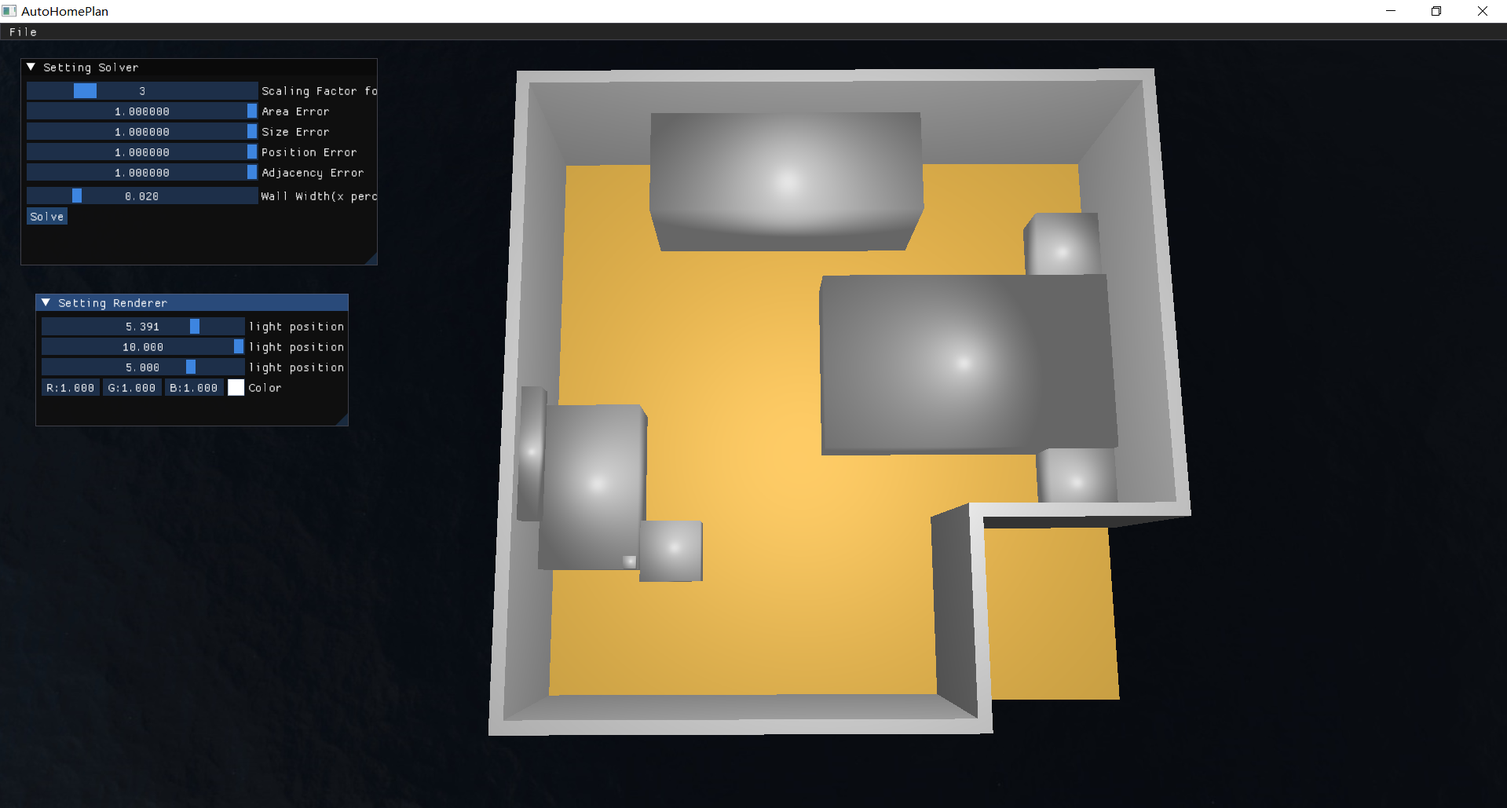
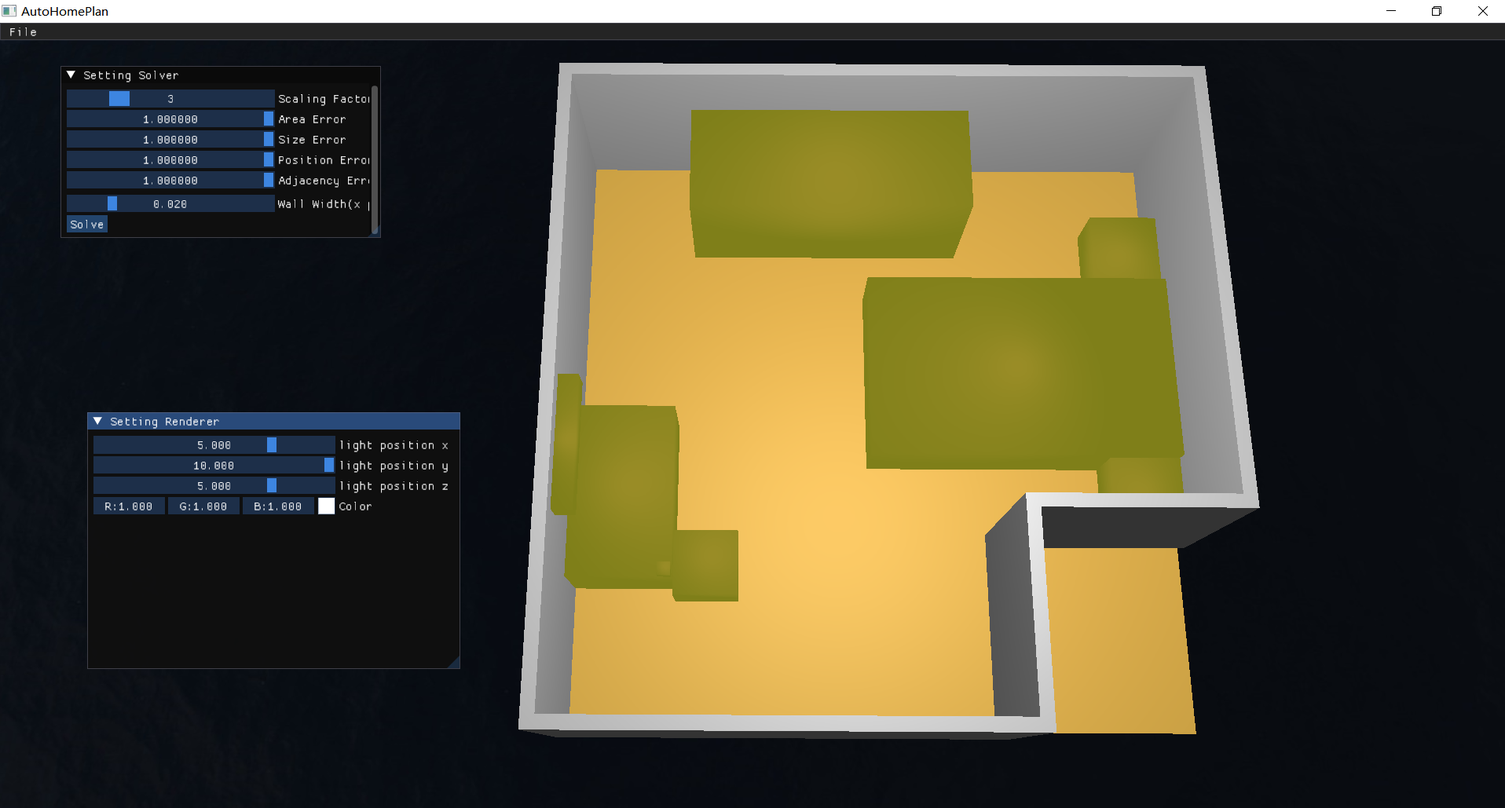
Modify some instructions

diff --git a/src/Solver/Solver.cpp b/src/Solver/Solver.cpp
@@ -73,39 +73,39 @@ void Solver::addConstraints()
 	// Inside Constraints & tolerance Constraint
 	VertexIterator vi, vi_end;
 	for (boost::tie(vi, vi_end) = boost::vertices(g); vi != vi_end; ++vi) {
-		model.addConstr(x_i[g[*vi].id] - l_i[g[*vi].id] / 2 >= boundary.origin_pos[0]);
-		model.addConstr(x_i[g[*vi].id] + l_i[g[*vi].id] / 2 <= boundary.origin_pos[0] + boundary.size[0]);
-		model.addConstr(y_i[g[*vi].id] - w_i[g[*vi].id] / 2 >= boundary.origin_pos[1]);
-		model.addConstr(y_i[g[*vi].id] + w_i[g[*vi].id] / 2 <= boundary.origin_pos[1] + boundary.size[1]);
+		model.addConstr(x_i[g[*vi].id] - l_i[g[*vi].id] / 2 >= boundary.origin_pos[0], "Inside_Object_" + std::to_string(g[*vi].id) + "_x_left");
+		model.addConstr(x_i[g[*vi].id] + l_i[g[*vi].id] / 2 <= boundary.origin_pos[0] + boundary.size[0], "Inside_Object_" + std::to_string(g[*vi].id) + "_x_right");
+		model.addConstr(y_i[g[*vi].id] - w_i[g[*vi].id] / 2 >= boundary.origin_pos[1], "Inside_Object_" + std::to_string(g[*vi].id) + "_y_back");
+		model.addConstr(y_i[g[*vi].id] + w_i[g[*vi].id] / 2 <= boundary.origin_pos[1] + boundary.size[1], "Inside_Object_" + std::to_string(g[*vi].id) + "_y_front");
 		if (!floorplan) {
-			model.addConstr(z_i[g[*vi].id] - h_i[g[*vi].id] / 2 >= boundary.origin_pos[2]);
-			model.addConstr(z_i[g[*vi].id] + h_i[g[*vi].id] / 2 <= boundary.origin_pos[2] + boundary.size[2]);
+			model.addConstr(z_i[g[*vi].id] - h_i[g[*vi].id] / 2 >= boundary.origin_pos[2], "Inside_Object_" + std::to_string(g[*vi].id) + "_z_bottom");
+			model.addConstr(z_i[g[*vi].id] + h_i[g[*vi].id] / 2 <= boundary.origin_pos[2] + boundary.size[2], "Inside_Object_" + std::to_string(g[*vi].id) + "_z_top");
 		}
 		if (!g[*vi].pos_tolerance.empty() && !g[*vi].target_pos.empty()) {
-			model.addConstr(x_i[g[*vi].id] >= g[*vi].target_pos[0] - g[*vi].pos_tolerance[0]);
-			model.addConstr(x_i[g[*vi].id] <= g[*vi].target_pos[0] + g[*vi].pos_tolerance[0]);
-			model.addConstr(y_i[g[*vi].id] >= g[*vi].target_pos[1] - g[*vi].pos_tolerance[1]);
-			model.addConstr(y_i[g[*vi].id] <= g[*vi].target_pos[1] + g[*vi].pos_tolerance[1]);
+			model.addConstr(x_i[g[*vi].id] >= g[*vi].target_pos[0] - g[*vi].pos_tolerance[0], "Pos_Tolerance_Object_" + std::to_string(g[*vi].id) + "_x_left");
+			model.addConstr(x_i[g[*vi].id] <= g[*vi].target_pos[0] + g[*vi].pos_tolerance[0], "Pos_Tolerance_Object_" + std::to_string(g[*vi].id) + "_x_right");
+			model.addConstr(y_i[g[*vi].id] >= g[*vi].target_pos[1] - g[*vi].pos_tolerance[1], "Pos_Tolerance_Object_" + std::to_string(g[*vi].id) + "_y_back");
+			model.addConstr(y_i[g[*vi].id] <= g[*vi].target_pos[1] + g[*vi].pos_tolerance[1], "Pos_Tolerance_Object_" + std::to_string(g[*vi].id) + "_y_front");
 			if (!floorplan) {
-				model.addConstr(z_i[g[*vi].id] >= g[*vi].target_pos[2] - g[*vi].pos_tolerance[2]);
-				model.addConstr(z_i[g[*vi].id] <= g[*vi].target_pos[2] + g[*vi].pos_tolerance[2]);
+				model.addConstr(z_i[g[*vi].id] >= g[*vi].target_pos[2] - g[*vi].pos_tolerance[2], "Pos_Tolerance_Object_" + std::to_string(g[*vi].id) + "_z_bottom");
+				model.addConstr(z_i[g[*vi].id] <= g[*vi].target_pos[2] + g[*vi].pos_tolerance[2], "Pos_Tolerance_Object_" + std::to_string(g[*vi].id) + "_z_top");
 			}
 		}
 		if (!g[*vi].size_tolerance.empty() && !g[*vi].target_size.empty()) {
-			model.addConstr(l_i[g[*vi].id] >= g[*vi].target_size[0] - g[*vi].size_tolerance[0]);
-			model.addConstr(l_i[g[*vi].id] <= g[*vi].target_size[0] + g[*vi].size_tolerance[0]);
-			model.addConstr(w_i[g[*vi].id] >= g[*vi].target_size[1] - g[*vi].size_tolerance[1]);
-			model.addConstr(w_i[g[*vi].id] <= g[*vi].target_size[1] + g[*vi].size_tolerance[1]);
+			model.addConstr(l_i[g[*vi].id] >= g[*vi].target_size[0] - g[*vi].size_tolerance[0], "Size_Tolerance_Object_" + std::to_string(g[*vi].id) + "_l_min");
+			model.addConstr(l_i[g[*vi].id] <= g[*vi].target_size[0] + g[*vi].size_tolerance[0], "Size_Tolerance_Object_" + std::to_string(g[*vi].id) + "_l_max");
+			model.addConstr(w_i[g[*vi].id] >= g[*vi].target_size[1] - g[*vi].size_tolerance[1], "Size_Tolerance_Object_" + std::to_string(g[*vi].id) + "_w_min");
+			model.addConstr(w_i[g[*vi].id] <= g[*vi].target_size[1] + g[*vi].size_tolerance[1], "Size_Tolerance_Object_" + std::to_string(g[*vi].id) + "_w_max");
 			if (!floorplan) {
-				model.addConstr(h_i[g[*vi].id] >= g[*vi].target_size[2] - g[*vi].size_tolerance[2]);
-				model.addConstr(h_i[g[*vi].id] <= g[*vi].target_size[2] + g[*vi].size_tolerance[2]);
+				model.addConstr(h_i[g[*vi].id] >= g[*vi].target_size[2] - g[*vi].size_tolerance[2], "Size_Tolerance_Object_" + std::to_string(g[*vi].id) + "_h_min");
+				model.addConstr(h_i[g[*vi].id] <= g[*vi].target_size[2] + g[*vi].size_tolerance[2], "Size_Tolerance_Object_" + std::to_string(g[*vi].id) + "_h_max");
 			}
 		}
 	}
 	// On floor Constraints
 	for (boost::tie(vi, vi_end) = boost::vertices(g); vi != vi_end; ++vi) {
 		if (g[*vi].on_floor && !floorplan) {
-			model.addConstr(z_i[g[*vi].id] == boundary.origin_pos[2] + h_i[g[*vi].id] / 2);
+			model.addConstr(z_i[g[*vi].id] == boundary.origin_pos[2] + h_i[g[*vi].id] / 2, "On_Floor_Object_" + std::to_string(g[*vi].id));
 		}
 	}
 	// Adjacency Constraints
@@ -122,91 +122,91 @@ void Solver::addConstraints()
 		{
 		case LeftOf:
 			if (g[*ei].distance >= 0)
-				model.addConstr(x_i[ids] + l_i[ids] / 2 <= x_i[idt] - l_i[idt] / 2);
+				model.addConstr(x_i[ids] + l_i[ids] / 2 <= x_i[idt] - l_i[idt] / 2, "Object_" + std::to_string(ids) + "_LeftOf_Object_" + std::to_string(idt));
 			else
 			{
-				model.addConstr(x_i[ids] + l_i[ids] / 2 == x_i[idt] - l_i[idt] / 2);
-				model.addConstr(y_i[ids] + w_i[ids] / 2 >= y_i[idt] - w_i[idt] / 2 + min_adj[1]);
-				model.addConstr(y_i[ids] - w_i[ids] / 2 <= y_i[idt] + w_i[idt] / 2 - min_adj[1]);
+				model.addConstr(x_i[ids] + l_i[ids] / 2 == x_i[idt] - l_i[idt] / 2, "Object_" + std::to_string(ids) + "_LeftOf_Object_" + std::to_string(idt) + "eq1");
+				model.addConstr(y_i[ids] + w_i[ids] / 2 >= y_i[idt] - w_i[idt] / 2 + min_adj[1], "Object_" + std::to_string(ids) + "_LeftOf_Object_" + std::to_string(idt) + "ieq1");
+				model.addConstr(y_i[ids] - w_i[ids] / 2 <= y_i[idt] + w_i[idt] / 2 - min_adj[1], "Object_" + std::to_string(ids) + "_LeftOf_Object_" + std::to_string(idt) + "ieq2");
 			}
 			break;
 		case RightOf:
 			if (g[*ei].distance >= 0)
-				model.addConstr(x_i[ids] - l_i[ids] / 2 >= x_i[idt] + l_i[idt] / 2);
+				model.addConstr(x_i[ids] - l_i[ids] / 2 >= x_i[idt] + l_i[idt] / 2, "Object_" + std::to_string(ids) + "_RightOf_Object_" + std::to_string(idt));
 			else
 			{
-				model.addConstr(x_i[ids] - l_i[ids] / 2 == x_i[idt] + l_i[idt] / 2);
-				model.addConstr(y_i[ids] + w_i[ids] / 2 >= y_i[idt] - w_i[idt] / 2 + min_adj[1]);
-				model.addConstr(y_i[ids] - w_i[ids] / 2 <= y_i[idt] + w_i[idt] / 2 - min_adj[1]);
+				model.addConstr(x_i[ids] - l_i[ids] / 2 == x_i[idt] + l_i[idt] / 2, "Object_" + std::to_string(ids) + "_RightOf_Object_" + std::to_string(idt) + "eq1");
+				model.addConstr(y_i[ids] + w_i[ids] / 2 >= y_i[idt] - w_i[idt] / 2 + min_adj[1], "Object_" + std::to_string(ids) + "_RightOf_Object_" + std::to_string(idt) + "ieq1");
+				model.addConstr(y_i[ids] - w_i[ids] / 2 <= y_i[idt] + w_i[idt] / 2 - min_adj[1], "Object_" + std::to_string(ids) + "_RightOf_Object_" + std::to_string(idt) + "ieq2");
 			}
 			break;
 		case Behind:
 			if (g[*ei].distance >= 0)
-				model.addConstr(y_i[ids] + w_i[ids] / 2 <= y_i[idt] - w_i[idt] / 2);
+				model.addConstr(y_i[ids] + w_i[ids] / 2 <= y_i[idt] - w_i[idt] / 2, "Object_" + std::to_string(ids) + "_Behind_Object_" + std::to_string(idt));
 			else
 			{
-				model.addConstr(y_i[ids] + w_i[ids] / 2 == y_i[idt] - w_i[idt] / 2);
-				model.addConstr(x_i[ids] + l_i[ids] / 2 >= x_i[idt] - l_i[idt] / 2 + min_adj[0]);
-				model.addConstr(x_i[ids] - l_i[ids] / 2 <= x_i[idt] + l_i[idt] / 2 - min_adj[0]);
+				model.addConstr(y_i[ids] + w_i[ids] / 2 == y_i[idt] - w_i[idt] / 2, "Object_" + std::to_string(ids) + "_Behind_Object_" + std::to_string(idt) + "eq1");
+				model.addConstr(x_i[ids] + l_i[ids] / 2 >= x_i[idt] - l_i[idt] / 2 + min_adj[0], "Object_" + std::to_string(ids) + "_Behind_Object_" + std::to_string(idt) + "ieq1");
+				model.addConstr(x_i[ids] - l_i[ids] / 2 <= x_i[idt] + l_i[idt] / 2 - min_adj[0], "Object_" + std::to_string(ids) + "_Behind_Object_" + std::to_string(idt) + "ieq2");
 			}
 			break;
 		case FrontOf:
 			if (g[*ei].distance >= 0)
-				model.addConstr(y_i[ids] - w_i[ids] / 2 >= y_i[idt] + w_i[idt] / 2);
+				model.addConstr(y_i[ids] - w_i[ids] / 2 >= y_i[idt] + w_i[idt] / 2, "Object_" + std::to_string(ids) + "_FrontOf_Object_" + std::to_string(idt));
 			else
 			{
-				model.addConstr(y_i[ids] - w_i[ids] / 2 == y_i[idt] + w_i[idt] / 2);
-				model.addConstr(x_i[ids] + l_i[ids] / 2 >= x_i[idt] - l_i[idt] / 2 + min_adj[0]);
-				model.addConstr(x_i[ids] - l_i[ids] / 2 <= x_i[idt] + l_i[idt] / 2 - min_adj[0]);
+				model.addConstr(y_i[ids] - w_i[ids] / 2 == y_i[idt] + w_i[idt] / 2, "Object_" + std::to_string(ids) + "_FrontOf_Object_" + std::to_string(idt) + "eq1");
+				model.addConstr(x_i[ids] + l_i[ids] / 2 >= x_i[idt] - l_i[idt] / 2 + min_adj[0], "Object_" + std::to_string(ids) + "_FrontOf_Object_" + std::to_string(idt) + "ieq1");
+				model.addConstr(x_i[ids] - l_i[ids] / 2 <= x_i[idt] + l_i[idt] / 2 - min_adj[0], "Object_" + std::to_string(ids) + "_FrontOf_Object_" + std::to_string(idt) + "ieq2");
 			}
 			break;
 		case Under:
 			if (g[*ei].distance >= 0)
-				model.addConstr(z_i[ids] + h_i[ids] / 2 <= z_i[idt] - h_i[idt] / 2);
+				model.addConstr(z_i[ids] + h_i[ids] / 2 <= z_i[idt] - h_i[idt] / 2, "Object_" + std::to_string(ids) + "_Under_Object_" + std::to_string(idt));
 			else
-				model.addConstr(z_i[ids] + h_i[ids] / 2 == z_i[idt] - h_i[idt] / 2);
-			model.addConstr(x_i[ids] - l_i[ids] / 2 <= x_i[idt] - l_i[idt] / 2);
-			model.addConstr(x_i[ids] + l_i[ids] / 2 >= x_i[idt] + l_i[idt] / 2);
-			model.addConstr(y_i[ids] - w_i[ids] / 2 <= y_i[idt] - w_i[idt] / 2);
-			model.addConstr(y_i[ids] + w_i[ids] / 2 >= y_i[idt] + w_i[idt] / 2);
+				model.addConstr(z_i[ids] + h_i[ids] / 2 == z_i[idt] - h_i[idt] / 2, "Object_" + std::to_string(ids) + "_Under_Object_" + std::to_string(idt));
+			model.addConstr(x_i[ids] - l_i[ids] / 2 <= x_i[idt] - l_i[idt] / 2, "Object_" + std::to_string(ids) + "_Under_Object_" + std::to_string(idt) + "ieq1");
+			model.addConstr(x_i[ids] + l_i[ids] / 2 >= x_i[idt] + l_i[idt] / 2, "Object_" + std::to_string(ids) + "_Under_Object_" + std::to_string(idt) + "ieq2");
+			model.addConstr(y_i[ids] - w_i[ids] / 2 <= y_i[idt] - w_i[idt] / 2, "Object_" + std::to_string(ids) + "_Under_Object_" + std::to_string(idt) + "ieq3");
+			model.addConstr(y_i[ids] + w_i[ids] / 2 >= y_i[idt] + w_i[idt] / 2, "Object_" + std::to_string(ids) + "_Under_Object_" + std::to_string(idt) + "ieq4");
 			break;
 		case Above:
 			if (g[*ei].distance >= 0)
-				model.addConstr(z_i[ids] - h_i[ids] / 2 >= z_i[idt] + h_i[idt] / 2);
+				model.addConstr(z_i[ids] - h_i[ids] / 2 >= z_i[idt] + h_i[idt] / 2, "Object_" + std::to_string(ids) + "_Above_Object_" + std::to_string(idt));
 			else
-				model.addConstr(z_i[ids] - h_i[ids] / 2 == z_i[idt] + h_i[idt] / 2);
-			model.addConstr(x_i[ids] - l_i[ids] / 2 >= x_i[idt] - l_i[idt] / 2);
-			model.addConstr(x_i[ids] + l_i[ids] / 2 <= x_i[idt] + l_i[idt] / 2);
-			model.addConstr(y_i[ids] - w_i[ids] / 2 >= y_i[idt] - w_i[idt] / 2);
-			model.addConstr(y_i[ids] + w_i[ids] / 2 <= y_i[idt] + w_i[idt] / 2);
+				model.addConstr(z_i[ids] - h_i[ids] / 2 == z_i[idt] + h_i[idt] / 2, "Object_" + std::to_string(ids) + "_Above_Object_" + std::to_string(idt));
+			model.addConstr(x_i[ids] - l_i[ids] / 2 >= x_i[idt] - l_i[idt] / 2, "Object_" + std::to_string(ids) + "_Above_Object_" + std::to_string(idt) + "ieq1");
+			model.addConstr(x_i[ids] + l_i[ids] / 2 <= x_i[idt] + l_i[idt] / 2, "Object_" + std::to_string(ids) + "_Above_Object_" + std::to_string(idt) + "ieq2");
+			model.addConstr(y_i[ids] - w_i[ids] / 2 >= y_i[idt] - w_i[idt] / 2, "Object_" + std::to_string(ids) + "_Above_Object_" + std::to_string(idt) + "ieq3");
+			model.addConstr(y_i[ids] + w_i[ids] / 2 <= y_i[idt] + w_i[idt] / 2, "Object_" + std::to_string(ids) + "_Above_Object_" + std::to_string(idt) + "ieq4");
 			break;
 		case CloseBy:
 			adjacency[ids][idt] = model.addVar(0, 1, 0, GRB_BINARY);
-			model.addConstr(x_i[ids] - l_i[ids] / 2 <= x_i[idt] + l_i[idt] / 2 - min_adj[0] * adjacency[ids][idt]);
-			model.addConstr(x_i[ids] + l_i[ids] / 2 >= x_i[idt] - l_i[idt] / 2 + min_adj[0] * adjacency[ids][idt]);
-			model.addConstr(y_i[ids] - w_i[ids] / 2 <= y_i[idt] + w_i[idt] / 2 - min_adj[1] * (1 - adjacency[ids][idt]));
-			model.addConstr(y_i[ids] + w_i[ids] / 2 >= y_i[idt] - w_i[idt] / 2 + min_adj[1] * (1 - adjacency[ids][idt]));
+			model.addConstr(x_i[ids] - l_i[ids] / 2 <= x_i[idt] + l_i[idt] / 2 - min_adj[0] * adjacency[ids][idt], "Object_" + std::to_string(ids) + "_CloseBy_Object_" + std::to_string(idt) + "ieq1");
+			model.addConstr(x_i[ids] + l_i[ids] / 2 >= x_i[idt] - l_i[idt] / 2 + min_adj[0] * adjacency[ids][idt], "Object_" + std::to_string(ids) + "_CloseBy_Object_" + std::to_string(idt) + "ieq2");
+			model.addConstr(y_i[ids] - w_i[ids] / 2 <= y_i[idt] + w_i[idt] / 2 - min_adj[1] * (1 - adjacency[ids][idt]), "Object_" + std::to_string(ids) + "_CloseBy_Object_" + std::to_string(idt) + "ieq3");
+			model.addConstr(y_i[ids] + w_i[ids] / 2 >= y_i[idt] - w_i[idt] / 2 + min_adj[1] * (1 - adjacency[ids][idt]), "Object_" + std::to_string(ids) + "_CloseBy_Object_" + std::to_string(idt) + "ieq4");
 			break;
 		case AlignWith:
 			switch (g[*ei].align_edge)
 			{
 			case 0:
-				model.addConstr(y_i[ids] - w_i[ids] / 2 == y_i[idt] - w_i[idt] / 2);
+				model.addConstr(y_i[ids] - w_i[ids] / 2 == y_i[idt] - w_i[idt] / 2, "Object_" + std::to_string(ids) + "_AlignWith_Object_" + std::to_string(idt));
 				break;
 			case 1:
-				model.addConstr(x_i[ids] + l_i[ids] / 2 == x_i[idt] + l_i[idt] / 2);
+				model.addConstr(x_i[ids] + l_i[ids] / 2 == x_i[idt] + l_i[idt] / 2, "Object_" + std::to_string(ids) + "_AlignWith_Object_" + std::to_string(idt));
 				break;
 			case 2:
-				model.addConstr(y_i[ids] + w_i[ids] / 2 == y_i[idt] + w_i[idt] / 2);
+				model.addConstr(y_i[ids] + w_i[ids] / 2 == y_i[idt] + w_i[idt] / 2, "Object_" + std::to_string(ids) + "_AlignWith_Object_" + std::to_string(idt));
 				break;
 			case 3:
-				model.addConstr(x_i[ids] - l_i[ids] / 2 == x_i[idt] - l_i[idt] / 2);
+				model.addConstr(x_i[ids] - l_i[ids] / 2 == x_i[idt] - l_i[idt] / 2, "Object_" + std::to_string(ids) + "_AlignWith_Object_" + std::to_string(idt));
 				break;
 			case 4:
-				model.addConstr(z_i[ids] - h_i[ids] / 2 == z_i[idt] + h_i[idt] / 2);
+				model.addConstr(z_i[ids] - h_i[ids] / 2 == z_i[idt] + h_i[idt] / 2, "Object_" + std::to_string(ids) + "_AlignWith_Object_" + std::to_string(idt));
 				break;
 			case 5:
-				model.addConstr(z_i[ids] + h_i[ids] / 2 == z_i[idt] - h_i[idt] / 2);
+				model.addConstr(z_i[ids] + h_i[ids] / 2 == z_i[idt] - h_i[idt] / 2, "Object_" + std::to_string(ids) + "_AlignWith_Object_" + std::to_string(idt));
 				break;
 			default:break;
 			}
@@ -225,28 +225,28 @@ void Solver::addConstraints()
 				sigma_F[g[*vi].id][g[*vj].id] = model.addVar(0, 1, 0, GRB_BINARY);
 				sigma_B[g[*vi].id][g[*vj].id] = model.addVar(0, 1, 0, GRB_BINARY);
 				model.addConstr(x_i[g[*vi].id] - l_i[g[*vi].id] / 2 >= x_i[g[*vj].id] + l_i[g[*vj].id] / 2 -
-					M * (1 - sigma_R[g[*vi].id][g[*vj].id]));
+					M * (1 - sigma_R[g[*vi].id][g[*vj].id]), "NonOverlap_Object_" + std::to_string(g[*vi].id) + "and_Object_" + std::to_string(g[*vj].id) + "R");
 				model.addConstr(x_i[g[*vi].id] + l_i[g[*vi].id] / 2 <= x_i[g[*vj].id] - l_i[g[*vj].id] / 2 +
-					M * (1 - sigma_L[g[*vi].id][g[*vj].id]));
+					M * (1 - sigma_L[g[*vi].id][g[*vj].id]), "NonOverlap_Object_" + std::to_string(g[*vi].id) + "and_Object_" + std::to_string(g[*vj].id) + "L");
 				model.addConstr(y_i[g[*vi].id] - w_i[g[*vi].id] / 2 >= y_i[g[*vj].id] + w_i[g[*vj].id] / 2 - 
-					M * (1 - sigma_F[g[*vi].id][g[*vj].id]));
+					M * (1 - sigma_F[g[*vi].id][g[*vj].id]), "NonOverlap_Object_" + std::to_string(g[*vi].id) + "and_Object_" + std::to_string(g[*vj].id) + "F");
 				model.addConstr(y_i[g[*vi].id] + w_i[g[*vi].id] / 2 <= y_i[g[*vj].id] - w_i[g[*vj].id] / 2 + 
-					M * (1 - sigma_B[g[*vi].id][g[*vj].id]));
+					M * (1 - sigma_B[g[*vi].id][g[*vj].id]), "NonOverlap_Object_" + std::to_string(g[*vi].id) + "and_Object_" + std::to_string(g[*vj].id) + "B");
 
 				if (!floorplan) {
 					sigma_U[g[*vi].id][g[*vj].id] = model.addVar(0, 1, 0, GRB_BINARY);
 					sigma_D[g[*vi].id][g[*vj].id] = model.addVar(0, 1, 0, GRB_BINARY);
 					model.addConstr(z_i[g[*vi].id] - h_i[g[*vi].id] / 2 >= z_i[g[*vj].id] + h_i[g[*vj].id] / 2 -
-						M * (1 - sigma_U[g[*vi].id][g[*vj].id]));
+						M * (1 - sigma_U[g[*vi].id][g[*vj].id]), "NonOverlap_Object_" + std::to_string(g[*vi].id) + "and_Object_" + std::to_string(g[*vj].id) + "U");
 					model.addConstr(z_i[g[*vi].id] + h_i[g[*vi].id] / 2 <= z_i[g[*vj].id] - h_i[g[*vj].id] / 2 +
-						M * (1 - sigma_D[g[*vi].id][g[*vj].id]));
+						M * (1 - sigma_D[g[*vi].id][g[*vj].id]), "NonOverlap_Object_" + std::to_string(g[*vi].id) + "and_Object_" + std::to_string(g[*vj].id) + "D");
 					model.addConstr(sigma_L[g[*vi].id][g[*vj].id] + sigma_R[g[*vi].id][g[*vj].id] +
 						sigma_F[g[*vi].id][g[*vj].id] + sigma_B[g[*vi].id][g[*vj].id] +
-						sigma_U[g[*vi].id][g[*vj].id] + sigma_D[g[*vi].id][g[*vj].id] >= 1);
+						sigma_U[g[*vi].id][g[*vj].id] + sigma_D[g[*vi].id][g[*vj].id] >= 1, "NonOverlap_Object_" + std::to_string(g[*vi].id) + "and_Object_" + std::to_string(g[*vj].id));
 				}
 				else {
 					model.addConstr(sigma_L[g[*vi].id][g[*vj].id] + sigma_R[g[*vi].id][g[*vj].id] +
-						sigma_F[g[*vi].id][g[*vj].id] + sigma_B[g[*vi].id][g[*vj].id] >= 1);
+						sigma_F[g[*vi].id][g[*vj].id] + sigma_B[g[*vi].id][g[*vj].id] >= 1, "NonOverlap_Object_" + std::to_string(g[*vi].id) + "and_Object_" + std::to_string(g[*vj].id));
 				}
 			}
 		}
@@ -259,28 +259,28 @@ void Solver::addConstraints()
 			{
 				sigma_oL[g[*vi].id][i] = model.addVar(0, 1, 0, GRB_BINARY);
 				model.addConstr(x_i[g[*vi].id] + l_i[g[*vi].id] / 2 <= obstacles[i].pos[0] - obstacles[i].size[0] / 2 +
-					M * (1 - sigma_oL[g[*vi].id][i]));
+					M * (1 - sigma_oL[g[*vi].id][i]), "NonOverlap_Object_" + std::to_string(g[*vi].id) + "and_Obstacle_" + std::to_string(i) + "L");
 				sigma_o += sigma_oL[g[*vi].id][i];
 			}
 			if (boundary.origin_pos[0] + boundary.size[0] / 2 - obstacles[i].pos[0] - obstacles[i].size[0] / 2 > 1e-3)
 			{
 				sigma_oR[g[*vi].id][i] = model.addVar(0, 1, 0, GRB_BINARY);
 				model.addConstr(x_i[g[*vi].id] - l_i[g[*vi].id] / 2 >= obstacles[i].pos[0] + obstacles[i].size[0] / 2 -
-					M * (1 - sigma_oR[g[*vi].id][i]));
+					M * (1 - sigma_oR[g[*vi].id][i]), "NonOverlap_Object_" + std::to_string(g[*vi].id) + "and_Obstacle_" + std::to_string(i) + "R");
 				sigma_o += sigma_oR[g[*vi].id][i];
 			}
 			if (obstacles[i].pos[1] - obstacles[i].size[1] / 2 - boundary.origin_pos[1] > 1e-3)
 			{
 				sigma_oB[g[*vi].id][i] = model.addVar(0, 1, 0, GRB_BINARY);
 				model.addConstr(y_i[g[*vi].id] + w_i[g[*vi].id] / 2 <= obstacles[i].pos[1] - obstacles[i].size[1] / 2 +
-					M * (1 - sigma_oB[g[*vi].id][i]));
+					M * (1 - sigma_oB[g[*vi].id][i]), "NonOverlap_Object_" + std::to_string(g[*vi].id) + "and_Obstacle_" + std::to_string(i) + "B");	
 				sigma_o += sigma_oB[g[*vi].id][i];
 			}
 			if (boundary.origin_pos[1] + boundary.size[1] / 2 - obstacles[i].pos[1] - obstacles[i].size[1] / 2 > 1e-3)
 			{
 				sigma_oF[g[*vi].id][i] = model.addVar(0, 1, 0, GRB_BINARY);
 				model.addConstr(y_i[g[*vi].id] - w_i[g[*vi].id] / 2 >= obstacles[i].pos[1] + obstacles[i].size[1] / 2 -
-					M * (1 - sigma_oF[g[*vi].id][i]));
+					M * (1 - sigma_oF[g[*vi].id][i]), "NonOverlap_Object_" + std::to_string(g[*vi].id) + "and_Obstacle_" + std::to_string(i) + "F");
 				sigma_o += sigma_oF[g[*vi].id][i];
 			}
 
@@ -289,18 +289,18 @@ void Solver::addConstraints()
 				{
 					sigma_oD[g[*vi].id][i] = model.addVar(0, 1, 0, GRB_BINARY);
 					model.addConstr(z_i[g[*vi].id] + h_i[g[*vi].id] / 2 <= obstacles[i].pos[2] - obstacles[i].size[2] / 2 +
-											M * (1 - sigma_oD[g[*vi].id][i]));
+						M * (1 - sigma_oD[g[*vi].id][i]), "NonOverlap_Object_" + std::to_string(g[*vi].id) + "and_Obstacle_" + std::to_string(i) + "D");
 					sigma_o += sigma_oD[g[*vi].id][i];
 				}
 				if (boundary.origin_pos[2] + boundary.size[2] / 2 - obstacles[i].pos[2] - obstacles[i].size[2] / 2 > 1e-3)
 				{
 					sigma_oU[g[*vi].id][i] = model.addVar(0, 1, 0, GRB_BINARY);
 					model.addConstr(z_i[g[*vi].id] - h_i[g[*vi].id] / 2 >= obstacles[i].pos[2] + obstacles[i].size[2] / 2 -
-						M * (1 - sigma_oU[g[*vi].id][i]));
+						M * (1 - sigma_oU[g[*vi].id][i]), "NonOverlap_Object_" + std::to_string(g[*vi].id) + "and_Obstacle_" + std::to_string(i) + "U");
 					sigma_o += sigma_oU[g[*vi].id][i];
 				}
 			}
-			model.addConstr(sigma_o >= 1);	
+			model.addConstr(sigma_o >= 1, "NonOverlap_Object_" + std::to_string(g[*vi].id) + "and_Obstacle_" + std::to_string(i));	
 		}
 	}
 	// Boundary Constraints
@@ -313,25 +313,25 @@ void Solver::addConstraints()
 			switch (boundary.Orientations[g[*vi].boundary])
 			{
 			case LEFT:
-				model.addConstr(x_i[g[*vi].id] - l_i[g[*vi].id] / 2 == x1_);
+				model.addConstr(x_i[g[*vi].id] - l_i[g[*vi].id] / 2 == x1_, "Boundary_Object_" + std::to_string(g[*vi].id) + "_Left_eq1");
 				// Here we assume that on boundary means at least half of length is on the wall
-				model.addConstr(y_i[g[*vi].id] >= y1_);
-				model.addConstr(y_i[g[*vi].id] <= y2_);
+				model.addConstr(y_i[g[*vi].id] >= y1_, "Boundary_Object_" + std::to_string(g[*vi].id) + "_Left_ieq1");
+				model.addConstr(y_i[g[*vi].id] <= y2_, "Boundary_Object_" + std::to_string(g[*vi].id) + "_Left_ieq2");
 				break;
 			case RIGHT:
-				model.addConstr(x_i[g[*vi].id] + l_i[g[*vi].id] / 2 == x1_);
-				model.addConstr(y_i[g[*vi].id] >= y1_);
-				model.addConstr(y_i[g[*vi].id] <= y2_);
+				model.addConstr(x_i[g[*vi].id] + l_i[g[*vi].id] / 2 == x1_, "Boundary_Object_" + std::to_string(g[*vi].id) + "_Right_eq1");
+				model.addConstr(y_i[g[*vi].id] >= y1_, "Boundary_Object_" + std::to_string(g[*vi].id) + "_Right_ieq1");
+				model.addConstr(y_i[g[*vi].id] <= y2_, "Boundary_Object_" + std::to_string(g[*vi].id) + "_Right_ieq2");
 				break;
 			case FRONT:
-				model.addConstr(y_i[g[*vi].id] + w_i[g[*vi].id] / 2 == y1_);
-				model.addConstr(x_i[g[*vi].id] >= x1_);
-				model.addConstr(x_i[g[*vi].id] <= x2_);
+				model.addConstr(y_i[g[*vi].id] + w_i[g[*vi].id] / 2 == y1_, "Boundary_Object_" + std::to_string(g[*vi].id) + "_Front_eq1");
+				model.addConstr(x_i[g[*vi].id] >= x1_, "Boundary_Object_" + std::to_string(g[*vi].id) + "_Front_ieq1");
+				model.addConstr(x_i[g[*vi].id] <= x2_, "Boundary_Object_" + std::to_string(g[*vi].id) + "_Front_ieq2");
 				break;
 			case BACK:
-				model.addConstr(y_i[g[*vi].id] - w_i[g[*vi].id] / 2 == y1_);
-				model.addConstr(x_i[g[*vi].id] >= x1_);
-				model.addConstr(x_i[g[*vi].id] <= x2_);
+				model.addConstr(y_i[g[*vi].id] - w_i[g[*vi].id] / 2 == y1_, "Boundary_Object_" + std::to_string(g[*vi].id) + "_Back_eq1");
+				model.addConstr(x_i[g[*vi].id] >= x1_, "Boundary_Object_" + std::to_string(g[*vi].id) + "_Back_ieq1");
+				model.addConstr(x_i[g[*vi].id] <= x2_, "Boundary_Object_" + std::to_string(g[*vi].id) + "_Back_ieq2");
 				break;
 			default:break;
 			}
@@ -349,7 +349,7 @@ void Solver::addConstraints()
 		for (int i = 0; i < num_obstacles; ++i) {
 			unuse_area -= obstacles[i].size[0] * obstacles[i].size[1];
 		}
-		model.addQConstr(total_area == unuse_area);
+		model.addQConstr(total_area == unuse_area, "Area_Constraint_for_FloorPlan");
 	}
 	
 	

diff --git a/src/view/SceneViewer.cpp b/src/view/SceneViewer.cpp
@@ -356,10 +356,10 @@ void SceneViewer::setupOneRoom(SceneGraph g, Boundary b)
 {
     float scalefactor = 10.0f / std::max(b.size[0], std::max(b.size[1], b.size[2]));
     Material mat;
-    mat.diffuseColor = glm::vec3(0.4f, 0.4f, 0.4f);
-    mat.ambientColor = glm::vec3(0.4f, 0.4f, 0.4f);
-    mat.specularColor = glm::vec3(0.1f, 0.1f, 0.1f);
-    mat.shininess = 32.0f;
+    mat.diffuseColor = glm::vec3(0.1f, 0.05f, 0.05f);
+    mat.ambientColor = glm::vec3(0.5f, 0.5f, 0.1f);
+    mat.specularColor = glm::vec3(0.00f, 0.00f, 0.00f);
+    mat.shininess = 10.0f;
     mat.textures = {};
     VertexIterator vi, vi_end;
     /*

diff --git a/README.md b/README.md
@@ -1,15 +1,11 @@
 # AutoHomePlan
 
-**This is my graduation project for USTC2024.**
+**This is my graduation project for USTC2024 : Constraint-based Scene Layout Optimization Generation Assisted By LLM**
 
-<div style="text-align: center; font-size: 20px; font-weight: bold;">
-Abstract
-</div>
-
-Constraint-based 3D scene layout generation: Using large language models and the Gurobi solver to model floor plan generation and interior layout design as a mixed-integer quadratic programming problem with scene graphs as input.
+**Abstract**: Constraint-based 3D scene layout generation: Using large language models and the Gurobi solver to model floor plan generation and interior layout design as a mixed-integer quadratic programming problem with scene graphs as input.
 
 
-Current Result(The program provides a simple preview and visualization, and we will use software like Blender to achieve more detailed visualizations in the future.):
+Current Result(The program provides a simple preview and visualization, and we will use software like Blender to achieve more detailed visualizations in the future):
 
 ![FloorPlan](Assets/Figures/floorplan.png)
 
@@ -58,6 +54,10 @@ The dot files are stored in the [Asset/SceneGraph](Assets/SceneGraph) folder. Yo
 dot -Tpng input.dot -o output.png
 ```
 
+![example1](Assets/Figures/graph1.png)
+
+![example2](Assets/Figures/graph2.png)
+
 
 ## Assets
 3D assets are from [Free3D](https://free3d.com/) and [BlenderKit](https://www.blenderkit.com/).
@@ -68,4 +68,4 @@ dot -Tpng input.dot -o output.png
 TODO
 
 ## Acknowledgement
-The framework of this project partially references [2024 Computer Graphics course assignment](https://github.com/USTC-CG/USTC_CG_24) and [Learn OpenGL](https://learnopengl-cn.github.io/intro/).
+> The framework of this project partially references [2024 Computer Graphics course assignment](https://github.com/USTC-CG/USTC_CG_24) and [Learn OpenGL](https://learnopengl-cn.github.io/intro/).
